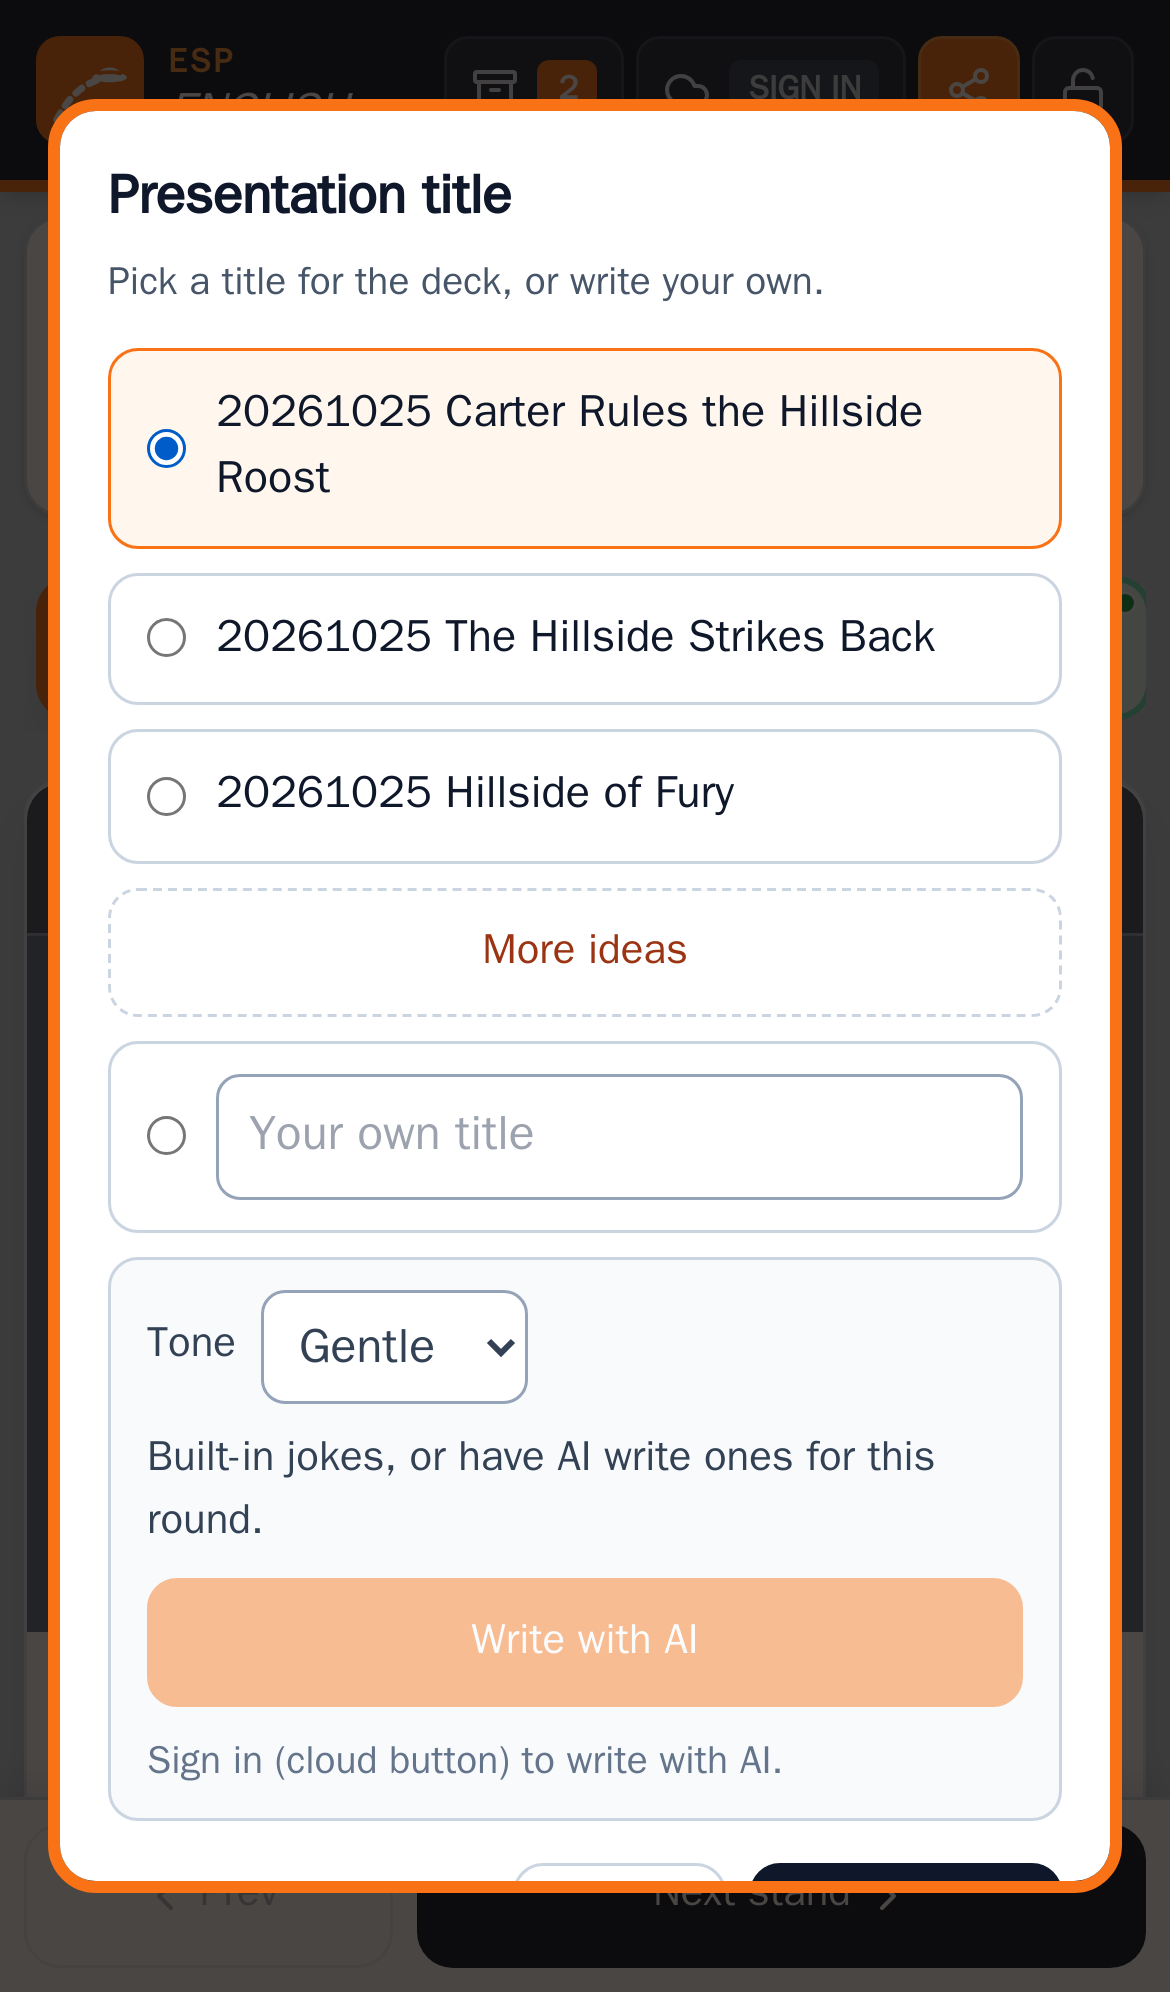
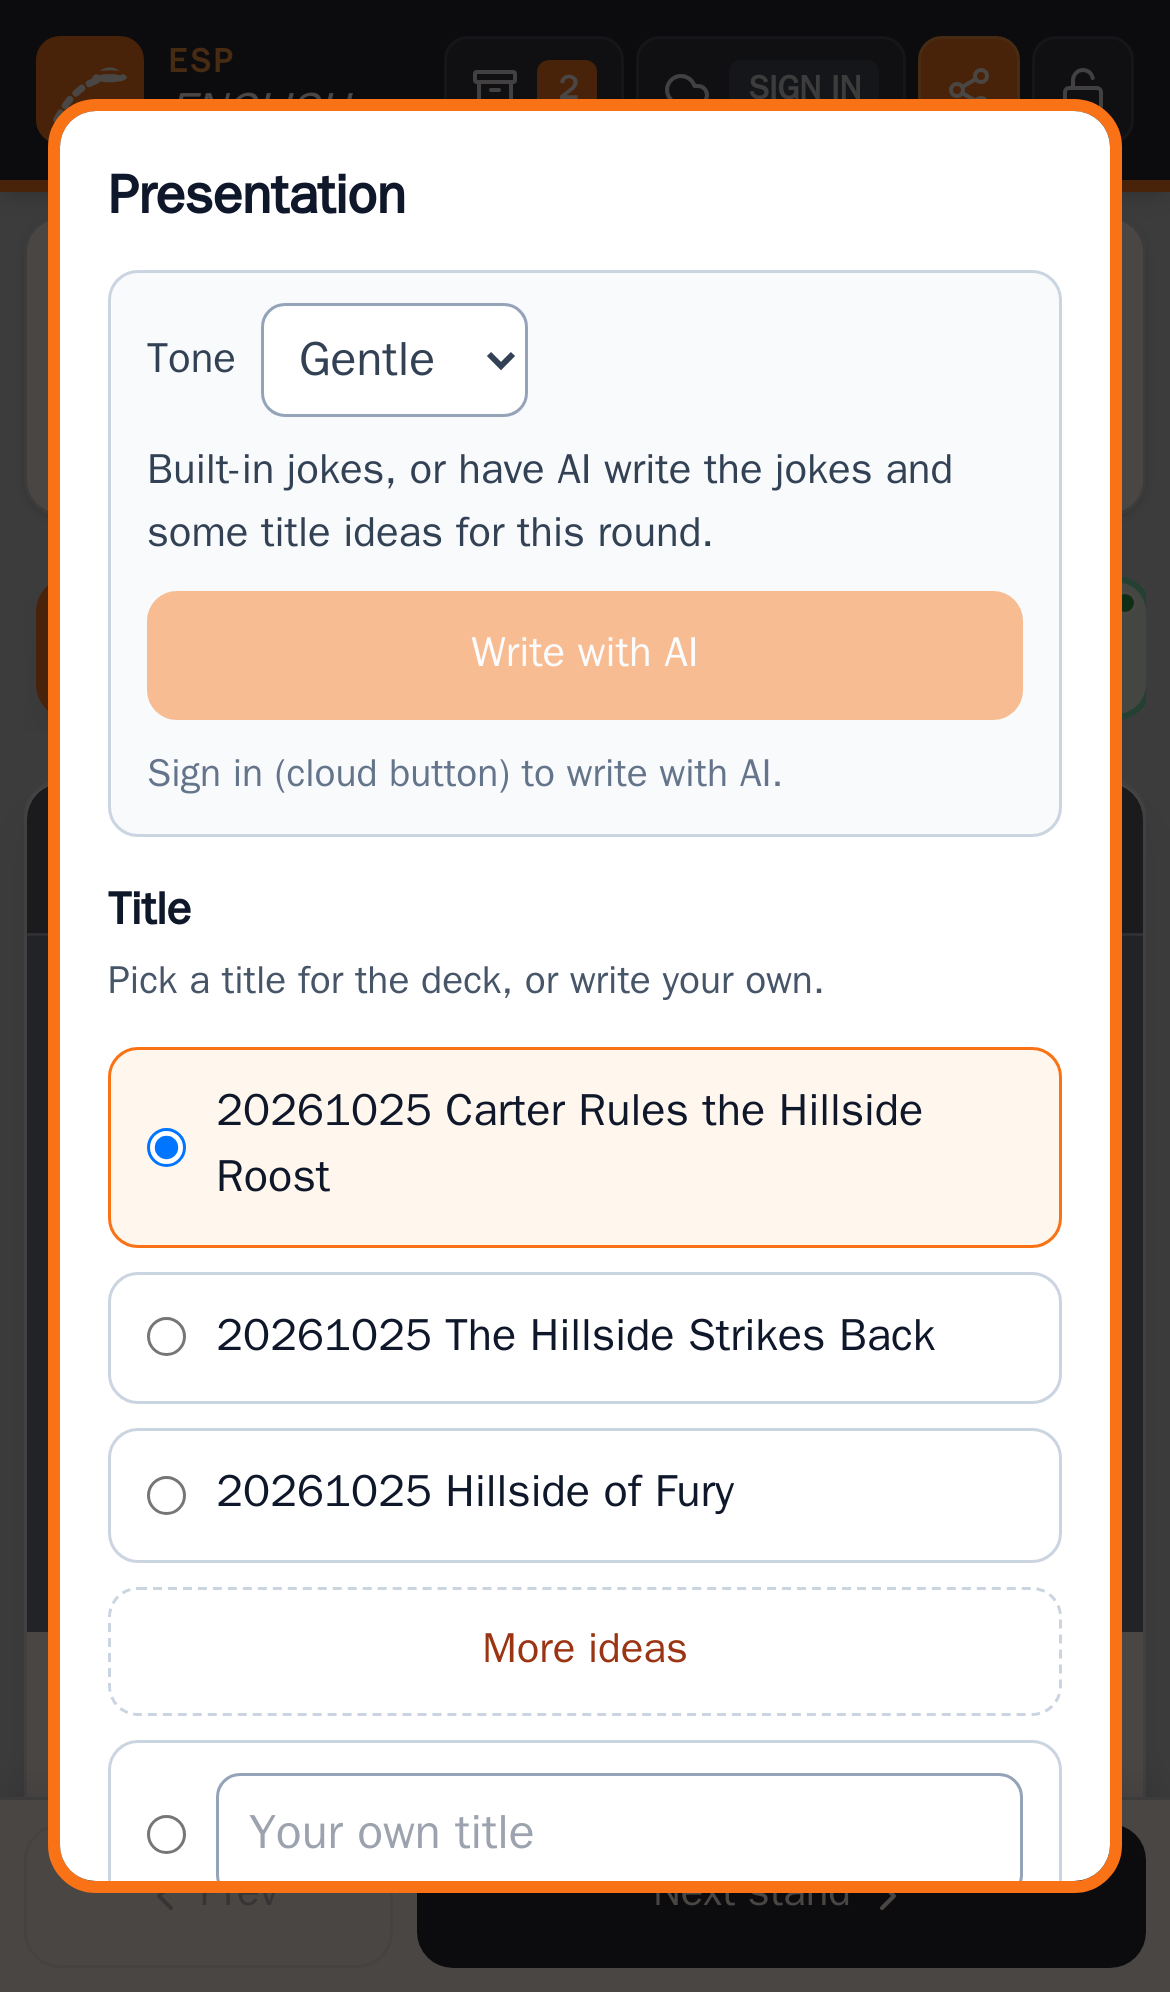
Presentation picker: tone and Write with AI above the title list
AI-written title ideas fill the title list (marked AI) and the first is
selected straight after writing; More ideas still offers the built-in ones.

diff --git a/assets/presentation.js b/assets/presentation.js
@@ -1263,7 +1263,9 @@
         #deck-picker label.dkp-opt { display: flex; gap: 10px; align-items: center; padding: 10px 12px; border: 1px solid #cbd5e1; border-radius: 10px; margin-bottom: 8px; font-size: 15px; font-weight: 600; }
         #deck-picker label.dkp-opt:has(input:checked) { border-color: #f97316; background: #fff7ed; }
         #deck-picker input[type=text] { width: 100%; height: 42px; border: 1px solid #94a3b8; border-radius: 8px; padding: 0 10px; font-size: 15px; font-weight: 600; }
-        #deck-picker .dkp-ai { margin-top: 6px; padding: 10px 12px; border: 1px solid #cbd5e1; border-radius: 10px; background: #f8fafc; font-size: 14px; color: #334155; display: grid; gap: 8px; }
+        #deck-picker h4 { margin: 14px 0 2px; font-size: 15px; font-weight: 800; }
+        #deck-picker .dkp-badge { display: inline-block; margin-left: 6px; padding: 1px 6px; border-radius: 6px; background: #f97316; color: #fff; font-size: 11px; font-weight: 800; vertical-align: middle; }
+        #deck-picker .dkp-ai { margin-top: 10px; padding: 10px 12px; border: 1px solid #cbd5e1; border-radius: 10px; background: #f8fafc; font-size: 14px; color: #334155; display: grid; gap: 8px; }
         #deck-picker .dkp-tone { display: flex; align-items: center; gap: 8px; font-weight: 700; }
         #deck-picker .dkp-tone select { height: 38px; border: 1px solid #94a3b8; border-radius: 8px; padding: 0 8px; font-size: 15px; font-weight: 600; background: #fff; }
         #deck-picker button.dkp-ai-btn { background: #f97316; color: #fff; border-color: #f97316; }
@@ -1352,14 +1354,21 @@
         let roll = 0;
         let options = [];
         let aiStatus = null;          // { available, signedIn } from the server, or null (unknown / no server)
-        let busy = false, aiError = '';
+        let busy = false, aiError = '', justWrote = false;
         const tone = () => m.data.deckTone || 'gentle';
         const ai = () => activeAi(m);
+        // With AI-written jokes in use, the first set of title ideas is the AI's; "More ideas" then
+        // offers the built-in ones. Right after writing, the first AI title is pre-selected.
         const optionsHtml = () => {
             const a = roll === 0 ? ai() : null;
-            const suggestions = a && a.titles.length ? a.titles.slice(0, 4).map(t => (date ? `${date} ${t}` : t)) : titleSuggestions(m, roll);
+            const aiTitles = a && a.titles.length ? a.titles.slice(0, 4).map(t => (date ? `${date} ${t}` : t)) : [];
+            const suggestions = aiTitles.length ? aiTitles : titleSuggestions(m, roll);
             options = saved && !suggestions.includes(saved) ? [saved, ...suggestions] : suggestions;
-            return options.map((t, i) => `<label class="dkp-opt"><input type="radio" name="dkp-title" value="${esc(t)}" ${(saved && roll === 0 ? t === saved : i === (saved ? 1 : 0)) ? 'checked' : ''}> ${esc(t)}</label>`).join('');
+            const pickIdx = justWrote && aiTitles.length ? options.indexOf(aiTitles[0]) : -1;
+            return options.map((t, i) => {
+                const on = pickIdx >= 0 ? i === pickIdx : (saved && roll === 0 ? t === saved : i === (saved ? 1 : 0));
+                return `<label class="dkp-opt"><input type="radio" name="dkp-title" value="${esc(t)}" ${on ? 'checked' : ''}> <span>${esc(t)}${aiTitles.includes(t) ? ' <span class="dkp-badge">AI</span>' : ''}</span></label>`;
+            }).join('');
         };
         const aiHtml = () => {
             const st = aiStatus;
@@ -1371,7 +1380,7 @@
             else if (a) line = `<span><strong>Using AI-written jokes</strong> (${esc(cap(stored.tone || 'gentle'))}${stored.tone && stored.tone !== tone() ? ` — Rewrite to use ${esc(cap(tone()))}` : ''}).</span> <button type="button" data-act="builtin" class="dkp-link">Use built-in jokes</button>`;
             else if (stored && stored.use === false && stored.key === factsKey(deckFacts(m))) line = '<span>Using the built-in jokes.</span> <button type="button" data-act="useai" class="dkp-link">Use the AI-written ones</button>';
             else if (stored && stored.text) line = '<span>The scores or notes have changed since the AI wrote the jokes, so the built-in ones are used. Write again to update.</span>';
-            else line = '<span>Built-in jokes, or have AI write ones for this round.</span>';
+            else line = '<span>Built-in jokes, or have AI write the jokes and some title ideas for this round.</span>';
             const canWrite = st && st.available && st.signedIn && !busy;
             const btnLabel = a || (stored && stored.text) ? 'Rewrite with AI' : 'Write with AI';
             const hint = !st ? '' : !st.available ? '<div class="dkp-ai-hint">Writing with AI isn’t set up on this server.</div>' : !st.signedIn ? '<div class="dkp-ai-hint">Sign in (cloud button) to write with AI.</div>' : '';
@@ -1384,12 +1393,13 @@
         picker.setAttribute('role', 'dialog');
         picker.setAttribute('aria-modal', 'true');
         picker.innerHTML = `<div class="dkp-box">
-            <h3>Presentation title</h3>
+            <h3>Presentation</h3>
+            <div class="dkp-ai">${aiHtml()}</div>
+            <h4>Title</h4>
             <p>Pick a title for the deck, or write your own.</p>
             <div class="dkp-list">${optionsHtml()}</div>
             <button type="button" data-act="more" class="dkp-more">More ideas</button>
             <label class="dkp-opt"><input type="radio" name="dkp-title" value="__custom"> <input type="text" id="dkp-custom" placeholder="Your own title" value=""></label>
-            <div class="dkp-ai">${aiHtml()}</div>
             <div class="dkp-actions">
                 <button type="button" data-act="cancel">Cancel</button>
                 <button type="button" data-act="view" class="dkp-primary">Show slides</button>
@@ -1430,6 +1440,7 @@
                 const stored = { key: factsKey(facts), tone: data.tone || tone(), model: data.model || '', at: Date.now(), text: data.text };
                 m.data.deckAi = stored;
                 bridge.setDeckAi(stored);
+                justWrote = true;
             } catch (err) {
                 aiError = `${err.message || 'The AI writer failed.'} The built-in jokes still work.`;
             } finally {

diff --git a/service_worker.js b/service_worker.js
@@ -1,4 +1,4 @@
-const CACHE_NAME = 'clayscorer-v48';
+const CACHE_NAME = 'clayscorer-v49';
 
 // Same-origin assets: `cache.addAll` is all-or-nothing, but these are local files
 // we control, so a hard-fail here is the right behaviour.

diff --git a/docs/USER_GUIDE.md b/docs/USER_GUIDE.md
@@ -336,7 +336,7 @@ See [example-outputs.pdf](example-outputs.pdf) for full examples of every discip
 <img src="guide/presentation-picker.png" width="300" alt="Choosing a presentation title">
 
 1. **Pick a title.** The app suggests three. Each starts with the date and names the ground or event, mixed with the squad hit rate, who won and by how much, and the weather if recorded (e.g. *20261108 Kelly-Smith Beats the Wind at Winter League*). Tap **More ideas** for another three, or type your own. The title you choose is remembered with the round.
-   - **Tone and Write with AI** (when signed in, and if the server has an Anthropic API key): choose a **Tone** (Gentle, Cheeky or Savage) and tap **Write with AI**. After a few seconds the title ideas, cover gag, roasts, slide verdicts, award names and closing lines are written by Claude for this round. They're stored with the round, so the slideshow, Share, Save and Print all match and it works offline afterwards. **Rewrite with AI** gets a fresh set (for example after changing the tone), and **Use built-in jokes** switches back to the app's own lines at any time. If you change the scores or notes afterwards, the deck goes back to the built-in jokes until you write again.
+   - **Tone and Write with AI** (at the top of the window, when signed in and if the server has an Anthropic API key): choose a **Tone** (Gentle, Cheeky or Savage) and tap **Write with AI**. After a few seconds the title list shows the AI's title ideas, marked **AI**, with the first one selected. **More ideas** still gives the built-in ones. The cover gag, roasts, slide verdicts, award names and closing lines are written by Claude too. They're stored with the round, so the slideshow, Share, Save and Print all match and it works offline afterwards. **Rewrite with AI** gets a fresh set (for example after changing the tone), and **Use built-in jokes** switches back to the app's own lines at any time. If you change the scores or notes afterwards, the deck goes back to the built-in jokes until you write again.
 
 <img src="guide/presentation-ai.png" width="300" alt="Choosing a tone and writing the jokes with AI">
 

diff --git a/CLAUDE.md b/CLAUDE.md
@@ -25,7 +25,7 @@ ClayScorer Pro — a static, offline-capable Progressive Web App for scoring CPS
   - **Any user-visible change** (new/changed feature, control, label, default, behaviour): update `docs/USER_GUIDE.md` in the same change, and regenerate its screenshots (`docs/tools/generate-docs.sh guide`) if the UI they show changed. If a new feature deserves a screenshot, add it to `docs/tools/generate-guide-screenshots.js`.
   - **Any output change** (PDF print view, scorecard/presentations images, `generateExportGrid`, `exportPresentationsHtml`, clay descriptions, `#capture-*` / print CSS): regenerate `docs/example-outputs.pdf` (`docs/tools/generate-docs.sh examples`).
   - `docs/tools/generate-docs.sh` with no argument does both. Needs Docker only (~3–4 min); look at the results before committing.
-- **When you change what's cached, bump `CACHE_NAME` in `service_worker.js`** (currently `clayscorer-v48`) so installed PWAs pick up the new bundle instead of serving stale cache. The `activate` handler deletes old cache names. `scorer.js` also logs a `SCORER_BUILD` banner on load — bumping that string when you ship changes gives you a quick DevTools signal that the page is running the new code (not a stale SW-cached copy).
+- **When you change what's cached, bump `CACHE_NAME` in `service_worker.js`** (currently `clayscorer-v49`) so installed PWAs pick up the new bundle instead of serving stale cache. The `activate` handler deletes old cache names. `scorer.js` also logs a `SCORER_BUILD` banner on load — bumping that string when you ship changes gives you a quick DevTools signal that the page is running the new code (not a stale SW-cached copy).
 - The SW pre-caches same-origin files with `cache.addAll`. If you add new app shell assets, put them in `LOCAL_ASSETS`.
 
 ## Architecture
